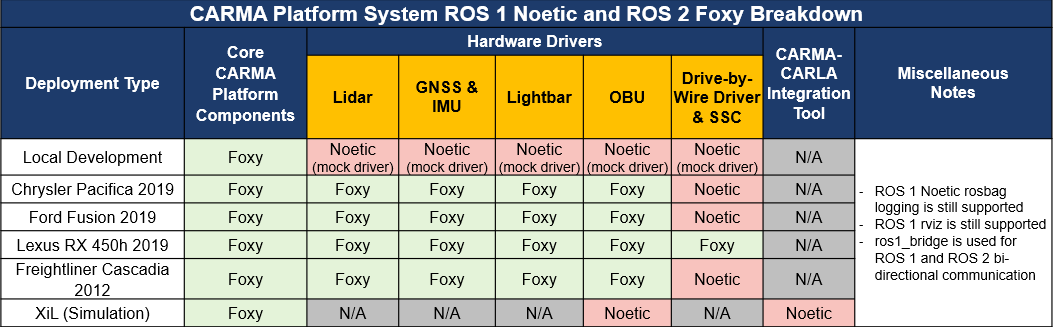
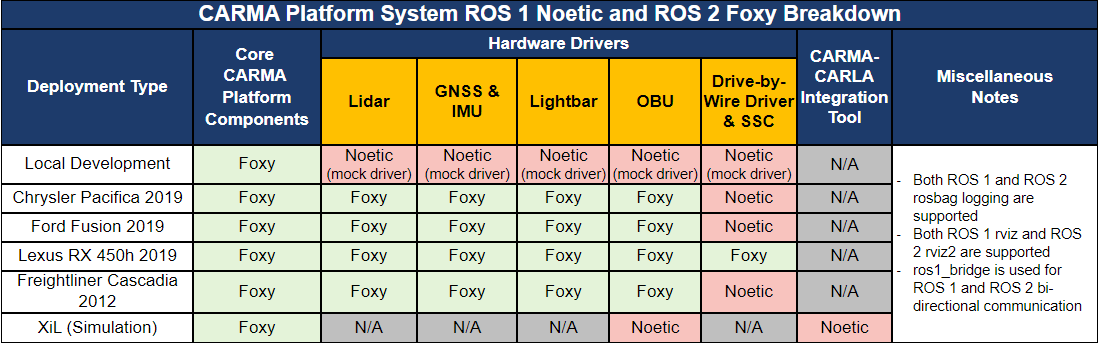
Clarify that ROS 2 rosbag and ROS 2 rviz2 are supported by CARMA Platform system

diff --git a/README.md b/README.md
@@ -21,8 +21,8 @@ The current CARMA Platform system operates as a hybrid of ROS 1 Noetic and ROS 2
 
 With regards to the primary [carma-platform](https://github.com/usdot-fhwa-stol/carma-platform) repository, the following ROS 1 Noetic content still exists:
 - The `rosbag_mock_drivers` and `mock_lightbar_driver` packages, which serve as mock hardware drivers to support local integration testing. These are expected to be upgraded to ROS 2 Foxy in the near future.
-- The `carma_record` package, which enables ROS 1 rosbags to be recorded. This package is being preserved to enable legacy data analysis scripts to be used for system evaluation.
-- The ROS 1 rviz configuration in the `carma` package, which enables rviz to be run natively when CARMA Platform is deployed on a PC with a ROS 1 Noetic installed to its desktop. This is planned be removed after all ROS 2 Foxy packages are upgraded to ROS 2 Humble.
+- The `carma_record` package, which enables ROS 1 rosbags to be recorded. This package is being preserved to enable legacy data analysis scripts to be used for system evaluation. Note that ROS 2 rosbag recording is also supported by the CARMA Platform system.
+- The ROS 1 rviz configuration in the `carma` package, which enables rviz to be run natively when CARMA Platform is deployed on a PC with a ROS 1 Noetic installed to its desktop. This is planned be removed after all ROS 2 Foxy packages are upgraded to ROS 2 Humble. Note that the ROS 2 rviz2 is also supported by the CARMA Platform system.
 
 Additionally, the [carma-ssc-interface-wrapper](https://github.com/usdot-fhwa-stol/carma-ssc-interface-wrapper) repository contains the drive-by-wire driver and SSC packages that are used for CARMA Platform-supported vehicle classes. The packages for several vehicle classes (Chrysler Pacifica, Ford Fusion, and Freightliner Cascadia) are only available for ROS 1 Noetic. These packages are closed source, and the external company providing them does not plan to upgrade them to ROS 2.
 
